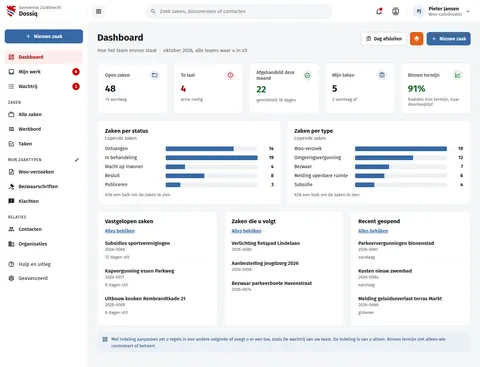
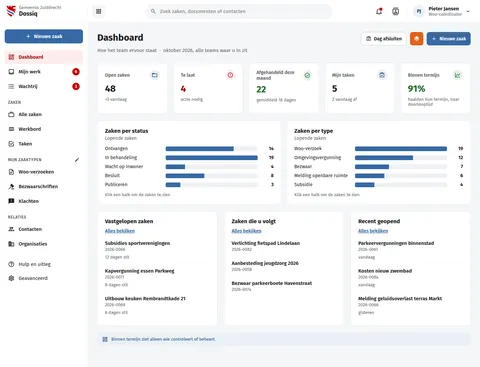
fix(screens): DqDashboard's note no longer points at Edit layout
The note kept only its last sentence, as the dossiq Dashboard page does:
layout is buildiq's and nobody keeps a personal arrangement. The board's
capability note drops "eigen indeling" for the same reason.

Assisted-by: ClaudeCode:claude-opus-5-5

Changed region(s): [[0.2188, 0.8992, 0.9375, 0.9591]]

diff --git a/preview/screens/boards/DqDashboard.html b/preview/screens/boards/DqDashboard.html
@@ -164,7 +164,7 @@ a{color:var(--sc-primary, #3669a5)}a:hover{color:var(--sc-primary-deep, #234a78)
         <div style="display: grid; grid-template-columns: repeat(auto-fit, minmax(200px, 1fr)); gap: 16px"><a href="DqZaken.html" style="background: #ffffff; border: 1px solid var(--sc-work-line, #e4e6ea); border-radius: 12px; padding: 20px 22px; display: flex; flex-direction: column; gap: 8px; text-decoration: none; color: var(--sc-work-ink, #1b1c1d)"><span style="display: flex; justify-content: space-between; align-items: center; gap: 8px"><span style="font-size: 14px; color: var(--sc-work-muted, #5e6168); font-weight: 600">Open zaken</span><span style="width: 32px; height: 32px; border-radius: 16px; background: var(--sc-primary-light, #eaf0f7); color: var(--sc-primary-deep, #234a78); display: inline-flex; align-items: center; justify-content: center"><svg width="18" height="18" viewbox="0 0 24 24" fill="currentColor" aria-hidden="true"><path d="M20,18H4V8H20M20,6H12L10,4H4C2.89,4 2,4.89 2,6V18A2,2 0 0,0 4,20H20A2,2 0 0,0 22,18V8C22,6.89 21.1,6 20,6Z"></path></svg></span></span><strong style="font-size: 28px; font-weight: 700; color: var(--sc-work-ink, #1b1c1d)">48</strong><span style="font-size: 13px; color: var(--sc-work-muted, #5e6168)">+3 vandaag</span></a><a href="DqZaken.html" style="background: #ffffff; border: 1px solid var(--sc-work-line, #e4e6ea); border-radius: 12px; padding: 20px 22px; display: flex; flex-direction: column; gap: 8px; text-decoration: none; color: var(--sc-work-ink, #1b1c1d)"><span style="display: flex; justify-content: space-between; align-items: center; gap: 8px"><span style="font-size: 14px; color: var(--sc-work-muted, #5e6168); font-weight: 600">Te laat</span><span style="width: 32px; height: 32px; border-radius: 16px; background: #fcedec; color: var(--sc-accent-deep, #a30000); display: inline-flex; align-items: center; justify-content: center"><svg width="18" height="18" viewbox="0 0 24 24" fill="currentColor" aria-hidden="true"><path d="M11,15H13V17H11V15M11,7H13V13H11V7M12,2C6.47,2 2,6.5 2,12A10,10 0 0,0 12,22A10,10 0 0,0 22,12A10,10 0 0,0 12,2M12,20A8,8 0 0,1 4,12A8,8 0 0,1 12,4A8,8 0 0,1 20,12A8,8 0 0,1 12,20Z"></path></svg></span></span><strong style="font-size: 28px; font-weight: 700; color: var(--sc-accent-deep, #a30000)">4</strong><span style="font-size: 13px; color: var(--sc-work-muted, #5e6168)">actie nodig</span></a><a href="DqZaken.html" style="background: #ffffff; border: 1px solid var(--sc-work-line, #e4e6ea); border-radius: 12px; padding: 20px 22px; display: flex; flex-direction: column; gap: 8px; text-decoration: none; color: var(--sc-work-ink, #1b1c1d)"><span style="display: flex; justify-content: space-between; align-items: center; gap: 8px"><span style="font-size: 14px; color: var(--sc-work-muted, #5e6168); font-weight: 600">Afgehandeld deze maand</span><span style="width: 32px; height: 32px; border-radius: 16px; background: #e7f3ea; color: #1e6b2a; display: inline-flex; align-items: center; justify-content: center"><svg width="18" height="18" viewbox="0 0 24 24" fill="currentColor" aria-hidden="true"><path d="M12 2C6.5 2 2 6.5 2 12S6.5 22 12 22 22 17.5 22 12 17.5 2 12 2M12 20C7.59 20 4 16.41 4 12S7.59 4 12 4 20 7.59 20 12 16.41 20 12 20M16.59 7.58L10 14.17L7.41 11.59L6 13L10 17L18 9L16.59 7.58Z"></path></svg></span></span><strong style="font-size: 28px; font-weight: 700; color: #1e6b2a">22</strong><span style="font-size: 13px; color: var(--sc-work-muted, #5e6168)">gemiddeld 18 dagen</span></a><a href="DqZaken.html" style="background: #ffffff; border: 1px solid var(--sc-work-line, #e4e6ea); border-radius: 12px; padding: 20px 22px; display: flex; flex-direction: column; gap: 8px; text-decoration: none; color: var(--sc-work-ink, #1b1c1d)"><span style="display: flex; justify-content: space-between; align-items: center; gap: 8px"><span style="font-size: 14px; color: var(--sc-work-muted, #5e6168); font-weight: 600">Mijn taken</span><span style="width: 32px; height: 32px; border-radius: 16px; background: var(--sc-primary-light, #eaf0f7); color: var(--sc-primary-deep, #234a78); display: inline-flex; align-items: center; justify-content: center"><svg width="18" height="18" viewbox="0 0 24 24" fill="currentColor" aria-hidden="true"><path d="M19,3H14.82C14.4,1.84 13.3,1 12,1C10.7,1 9.6,1.84 9.18,3H5A2,2 0 0,0 3,5V19A2,2 0 0,0 5,21H19A2,2 0 0,0 21,19V5A2,2 0 0,0 19,3M12,3A1,1 0 0,1 13,4A1,1 0 0,1 12,5A1,1 0 0,1 11,4A1,1 0 0,1 12,3M7,7H17V5H19V19H5V5H7V7M7.5,13.5L9,12L11,14L15.5,9.5L17,11L11,17L7.5,13.5Z"></path></svg></span></span><strong style="font-size: 28px; font-weight: 700; color: var(--sc-work-ink, #1b1c1d)">5</strong><span style="font-size: 13px; color: var(--sc-work-muted, #5e6168)">2 vandaag af</span></a><a href="DqZaken.html" style="background: #ffffff; border: 1px solid var(--sc-work-line, #e4e6ea); border-radius: 12px; padding: 20px 22px; display: flex; flex-direction: column; gap: 8px; text-decoration: none; color: var(--sc-work-ink, #1b1c1d)"><span style="display: flex; justify-content: space-between; align-items: center; gap: 8px"><span style="font-size: 14px; color: var(--sc-work-muted, #5e6168); font-weight: 600">Binnen termijn</span><span style="width: 32px; height: 32px; border-radius: 16px; background: #e7f3ea; color: #1e6b2a; display: inline-flex; align-items: center; justify-content: center"><svg width="18" height="18" viewbox="0 0 24 24" fill="currentColor" aria-hidden="true"><path d="M16,11.78L20.24,4.45L21.97,5.45L16.74,14.5L10.23,10.75L5.46,19H22V21H2V3H4V17.54L9.5,8L16,11.78Z"></path></svg></span></span><strong style="font-size: 28px; font-weight: 700; color: #1e6b2a">91%</strong><span style="font-size: 13px; color: var(--sc-work-muted, #5e6168)">haalden hun termijn, naar doorlooptijd</span></a></div>
         <div style="display: grid; grid-template-columns: repeat(auto-fit, minmax(360px, 1fr)); gap: 14px 16px"><section style="background: #ffffff; border: 1px solid var(--sc-work-line, #e4e6ea); border-radius: 12px; padding: 20px 22px; display: flex; flex-direction: column; gap: 14px"><div style="display: flex; flex-wrap: wrap; justify-content: space-between; align-items: flex-start; gap: 10px 16px"><div style="flex: 1 1 260px; min-width: 0; display: flex; flex-direction: column; gap: 3px"><h2 style="margin: 0; font-size: 17px; font-weight: 700">Zaken per status</h2><span style="font-size: 14px; color: var(--sc-work-muted, #5e6168)">Lopende zaken</span></div></div><ul style="margin: 0; padding: 0; list-style: none; display: flex; flex-direction: column; gap: 10px"><li style="display: grid; grid-template-columns: 170px 1fr 36px; gap: 12px; align-items: center; font-size: 14px"><span>Ontvangen</span><span style="height: 14px; border-radius: 4px; background: var(--sc-work-soft, #eef0f3); overflow: hidden"><span style="display: block; height: 14px; width: 74%; background: var(--sc-primary, #3669a5)"></span></span><strong style="text-align: right">14</strong></li><li style="display: grid; grid-template-columns: 170px 1fr 36px; gap: 12px; align-items: center; font-size: 14px"><span>In behandeling</span><span style="height: 14px; border-radius: 4px; background: var(--sc-work-soft, #eef0f3); overflow: hidden"><span style="display: block; height: 14px; width: 100%; background: var(--sc-primary, #3669a5)"></span></span><strong style="text-align: right">19</strong></li><li style="display: grid; grid-template-columns: 170px 1fr 36px; gap: 12px; align-items: center; font-size: 14px"><span>Wacht op inwoner</span><span style="height: 14px; border-radius: 4px; background: var(--sc-work-soft, #eef0f3); overflow: hidden"><span style="display: block; height: 14px; width: 21%; background: var(--sc-primary, #3669a5)"></span></span><strong style="text-align: right">4</strong></li><li style="display: grid; grid-template-columns: 170px 1fr 36px; gap: 12px; align-items: center; font-size: 14px"><span>Besluit</span><span style="height: 14px; border-radius: 4px; background: var(--sc-work-soft, #eef0f3); overflow: hidden"><span style="display: block; height: 14px; width: 42%; background: var(--sc-primary, #3669a5)"></span></span><strong style="text-align: right">8</strong></li><li style="display: grid; grid-template-columns: 170px 1fr 36px; gap: 12px; align-items: center; font-size: 14px"><span>Publiceren</span><span style="height: 14px; border-radius: 4px; background: var(--sc-work-soft, #eef0f3); overflow: hidden"><span style="display: block; height: 14px; width: 16%; background: var(--sc-primary, #3669a5)"></span></span><strong style="text-align: right">3</strong></li></ul><span style="font-size: 13px; color: var(--sc-work-muted, #5e6168)">Klik een balk om de zaken te zien</span></section><section style="background: #ffffff; border: 1px solid var(--sc-work-line, #e4e6ea); border-radius: 12px; padding: 20px 22px; display: flex; flex-direction: column; gap: 14px"><div style="display: flex; flex-wrap: wrap; justify-content: space-between; align-items: flex-start; gap: 10px 16px"><div style="flex: 1 1 260px; min-width: 0; display: flex; flex-direction: column; gap: 3px"><h2 style="margin: 0; font-size: 17px; font-weight: 700">Zaken per type</h2><span style="font-size: 14px; color: var(--sc-work-muted, #5e6168)">Lopende zaken</span></div></div><ul style="margin: 0; padding: 0; list-style: none; display: flex; flex-direction: column; gap: 10px"><li style="display: grid; grid-template-columns: 170px 1fr 36px; gap: 12px; align-items: center; font-size: 14px"><span>Woo-verzoek</span><span style="height: 14px; border-radius: 4px; background: var(--sc-work-soft, #eef0f3); overflow: hidden"><span style="display: block; height: 14px; width: 100%; background: var(--sc-primary, #3669a5)"></span></span><strong style="text-align: right">19</strong></li><li style="display: grid; grid-template-columns: 170px 1fr 36px; gap: 12px; align-items: center; font-size: 14px"><span>Omgevingsvergunning</span><span style="height: 14px; border-radius: 4px; background: var(--sc-work-soft, #eef0f3); overflow: hidden"><span style="display: block; height: 14px; width: 63%; background: var(--sc-primary, #3669a5)"></span></span><strong style="text-align: right">12</strong></li><li style="display: grid; grid-template-columns: 170px 1fr 36px; gap: 12px; align-items: center; font-size: 14px"><span>Bezwaar</span><span style="height: 14px; border-radius: 4px; background: var(--sc-work-soft, #eef0f3); overflow: hidden"><span style="display: block; height: 14px; width: 37%; background: var(--sc-primary, #3669a5)"></span></span><strong style="text-align: right">7</strong></li><li style="display: grid; grid-template-columns: 170px 1fr 36px; gap: 12px; align-items: center; font-size: 14px"><span>Melding openbare ruimte</span><span style="height: 14px; border-radius: 4px; background: var(--sc-work-soft, #eef0f3); overflow: hidden"><span style="display: block; height: 14px; width: 32%; background: var(--sc-primary, #3669a5)"></span></span><strong style="text-align: right">6</strong></li><li style="display: grid; grid-template-columns: 170px 1fr 36px; gap: 12px; align-items: center; font-size: 14px"><span>Subsidie</span><span style="height: 14px; border-radius: 4px; background: var(--sc-work-soft, #eef0f3); overflow: hidden"><span style="display: block; height: 14px; width: 21%; background: var(--sc-primary, #3669a5)"></span></span><strong style="text-align: right">4</strong></li></ul><span style="font-size: 13px; color: var(--sc-work-muted, #5e6168)">Klik een balk om de zaken te zien</span></section></div>
         <div style="display: grid; grid-template-columns: repeat(auto-fit, minmax(280px, 1fr)); gap: 20px"><section style="background: #ffffff; border: 1px solid var(--sc-work-line, #e4e6ea); border-radius: 12px; padding: 20px 22px; display: flex; flex-direction: column; gap: 6px"><div style="display: flex; flex-wrap: wrap; justify-content: space-between; align-items: flex-start; gap: 10px 16px"><div style="flex: 1 1 260px; min-width: 0; display: flex; flex-direction: column; gap: 3px"><h2 style="margin: 0; font-size: 17px; font-weight: 700">Vastgelopen zaken</h2></div><div style="flex: none; display: flex; flex-wrap: wrap; gap: 8px"><a href="DqZaken.html" style="font-size: 14px; font-weight: 600">Alles bekijken</a></div></div><ul style="margin: 0; padding: 0; list-style: none; display: flex; flex-direction: column"><li style="display: flex; flex-wrap: wrap; gap: 8px 16px; align-items: center; padding: 12px 0; border-top: 1px solid var(--sc-work-soft, #eef0f3)"><span style="flex: 1 1 260px; min-width: 0; display: flex; gap: 12px; align-items: center"><span style="display: flex; flex-direction: column; gap: 2px; min-width: 0"><strong style="font-size: 15px; font-weight: 600">Subsidies sportverenigingen</strong><span style="font-size: 13px; color: var(--sc-work-muted, #5e6168)">2026-0066</span></span></span><span style="flex: none; display: flex; flex-wrap: wrap; gap: 8px; align-items: center"><span style="font-size: 13px; color: var(--sc-work-muted, #5e6168)">12 dagen stil</span></span></li><li style="display: flex; flex-wrap: wrap; gap: 8px 16px; align-items: center; padding: 12px 0; border-top: 1px solid var(--sc-work-soft, #eef0f3)"><span style="flex: 1 1 260px; min-width: 0; display: flex; gap: 12px; align-items: center"><span style="display: flex; flex-direction: column; gap: 2px; min-width: 0"><strong style="font-size: 15px; font-weight: 600">Kapvergunning essen Parkweg</strong><span style="font-size: 13px; color: var(--sc-work-muted, #5e6168)">2026-0071</span></span></span><span style="flex: none; display: flex; flex-wrap: wrap; gap: 8px; align-items: center"><span style="font-size: 13px; color: var(--sc-work-muted, #5e6168)">8 dagen stil</span></span></li><li style="display: flex; flex-wrap: wrap; gap: 8px 16px; align-items: center; padding: 12px 0; border-top: 1px solid var(--sc-work-soft, #eef0f3)"><span style="flex: 1 1 260px; min-width: 0; display: flex; gap: 12px; align-items: center"><span style="display: flex; flex-direction: column; gap: 2px; min-width: 0"><strong style="font-size: 15px; font-weight: 600">Uitbouw keuken Rembrandtkade 21</strong><span style="font-size: 13px; color: var(--sc-work-muted, #5e6168)">2026-0069</span></span></span><span style="flex: none; display: flex; flex-wrap: wrap; gap: 8px; align-items: center"><span style="font-size: 13px; color: var(--sc-work-muted, #5e6168)">6 dagen stil</span></span></li></ul></section><section style="background: #ffffff; border: 1px solid var(--sc-work-line, #e4e6ea); border-radius: 12px; padding: 20px 22px; display: flex; flex-direction: column; gap: 6px"><div style="display: flex; flex-wrap: wrap; justify-content: space-between; align-items: flex-start; gap: 10px 16px"><div style="flex: 1 1 260px; min-width: 0; display: flex; flex-direction: column; gap: 3px"><h2 style="margin: 0; font-size: 17px; font-weight: 700">Zaken die u volgt</h2></div><div style="flex: none; display: flex; flex-wrap: wrap; gap: 8px"><a href="DqZaken.html" style="font-size: 14px; font-weight: 600">Alles bekijken</a></div></div><ul style="margin: 0; padding: 0; list-style: none; display: flex; flex-direction: column"><li style="display: flex; flex-wrap: wrap; gap: 8px 16px; align-items: center; padding: 12px 0; border-top: 1px solid var(--sc-work-soft, #eef0f3)"><span style="flex: 1 1 260px; min-width: 0; display: flex; gap: 12px; align-items: center"><span style="display: flex; flex-direction: column; gap: 2px; min-width: 0"><strong style="font-size: 15px; font-weight: 600">Verlichting fietspad Lindelaan</strong><span style="font-size: 13px; color: var(--sc-work-muted, #5e6168)">2026-0082</span></span></span><span style="flex: none; display: flex; flex-wrap: wrap; gap: 8px; align-items: center"></span></li><li style="display: flex; flex-wrap: wrap; gap: 8px 16px; align-items: center; padding: 12px 0; border-top: 1px solid var(--sc-work-soft, #eef0f3)"><span style="flex: 1 1 260px; min-width: 0; display: flex; gap: 12px; align-items: center"><span style="display: flex; flex-direction: column; gap: 2px; min-width: 0"><strong style="font-size: 15px; font-weight: 600">Aanbesteding jeugdzorg 2026</strong><span style="font-size: 13px; color: var(--sc-work-muted, #5e6168)">2026-0058</span></span></span><span style="flex: none; display: flex; flex-wrap: wrap; gap: 8px; align-items: center"></span></li><li style="display: flex; flex-wrap: wrap; gap: 8px 16px; align-items: center; padding: 12px 0; border-top: 1px solid var(--sc-work-soft, #eef0f3)"><span style="flex: 1 1 260px; min-width: 0; display: flex; gap: 12px; align-items: center"><span style="display: flex; flex-direction: column; gap: 2px; min-width: 0"><strong style="font-size: 15px; font-weight: 600">Bezwaar parkeerboete Havenstraat</strong><span style="font-size: 13px; color: var(--sc-work-muted, #5e6168)">2026-0074</span></span></span><span style="flex: none; display: flex; flex-wrap: wrap; gap: 8px; align-items: center"></span></li></ul></section><section style="background: #ffffff; border: 1px solid var(--sc-work-line, #e4e6ea); border-radius: 12px; padding: 20px 22px; display: flex; flex-direction: column; gap: 6px"><div style="display: flex; flex-wrap: wrap; justify-content: space-between; align-items: flex-start; gap: 10px 16px"><div style="flex: 1 1 260px; min-width: 0; display: flex; flex-direction: column; gap: 3px"><h2 style="margin: 0; font-size: 17px; font-weight: 700">Recent geopend</h2></div><div style="flex: none; display: flex; flex-wrap: wrap; gap: 8px"><a href="DqZaken.html" style="font-size: 14px; font-weight: 600">Alles bekijken</a></div></div><ul style="margin: 0; padding: 0; list-style: none; display: flex; flex-direction: column"><li style="display: flex; flex-wrap: wrap; gap: 8px 16px; align-items: center; padding: 12px 0; border-top: 1px solid var(--sc-work-soft, #eef0f3)"><span style="flex: 1 1 260px; min-width: 0; display: flex; gap: 12px; align-items: center"><span style="display: flex; flex-direction: column; gap: 2px; min-width: 0"><strong style="font-size: 15px; font-weight: 600">Parkeervergunningen binnenstad</strong><span style="font-size: 13px; color: var(--sc-work-muted, #5e6168)">2026-0061</span></span></span><span style="flex: none; display: flex; flex-wrap: wrap; gap: 8px; align-items: center"><span style="font-size: 13px; color: var(--sc-work-muted, #5e6168)">vandaag</span></span></li><li style="display: flex; flex-wrap: wrap; gap: 8px 16px; align-items: center; padding: 12px 0; border-top: 1px solid var(--sc-work-soft, #eef0f3)"><span style="flex: 1 1 260px; min-width: 0; display: flex; gap: 12px; align-items: center"><span style="display: flex; flex-direction: column; gap: 2px; min-width: 0"><strong style="font-size: 15px; font-weight: 600">Kosten nieuw zwembad</strong><span style="font-size: 13px; color: var(--sc-work-muted, #5e6168)">2026-0084</span></span></span><span style="flex: none; display: flex; flex-wrap: wrap; gap: 8px; align-items: center"><span style="font-size: 13px; color: var(--sc-work-muted, #5e6168)">vandaag</span></span></li><li style="display: flex; flex-wrap: wrap; gap: 8px 16px; align-items: center; padding: 12px 0; border-top: 1px solid var(--sc-work-soft, #eef0f3)"><span style="flex: 1 1 260px; min-width: 0; display: flex; gap: 12px; align-items: center"><span style="display: flex; flex-direction: column; gap: 2px; min-width: 0"><strong style="font-size: 15px; font-weight: 600">Melding geluidsoverlast terras Markt</strong><span style="font-size: 13px; color: var(--sc-work-muted, #5e6168)">2026-0066</span></span></span><span style="flex: none; display: flex; flex-wrap: wrap; gap: 8px; align-items: center"><span style="font-size: 13px; color: var(--sc-work-muted, #5e6168)">gisteren</span></span></li></ul></section></div>
-        <div style="display: flex; gap: 10px; align-items: flex-start; padding: 10px 14px; border-radius: 10px; background: var(--sc-primary-light, #eaf0f7); color: var(--sc-primary-deep, #234a78); font-size: 13px; line-height: 1.5"><svg width="18" height="18" viewbox="0 0 24 24" fill="currentColor" aria-hidden="true" style="flex: none; margin-top: 1px"><path d="M19,5V7H15V5H19M9,5V11H5V5H9M19,13V19H15V13H19M9,17V19H5V17H9M21,3H13V9H21V3M11,3H3V13H11V3M21,11H13V21H21V11M11,15H3V21H11V15Z"></path></svg><span>Met Indeling aanpassen zet u tegels in een andere volgorde of voegt u er een toe, zoals De wachtrij van uw team. De indeling is van u alleen. Binnen termijn ziet alleen wie controleert of beheert.</span></div>
+        <div style="display: flex; gap: 10px; align-items: flex-start; padding: 10px 14px; border-radius: 10px; background: var(--sc-primary-light, #eaf0f7); color: var(--sc-primary-deep, #234a78); font-size: 13px; line-height: 1.5"><svg width="18" height="18" viewbox="0 0 24 24" fill="currentColor" aria-hidden="true" style="flex: none; margin-top: 1px"><path d="M19,5V7H15V5H19M9,5V11H5V5H9M19,13V19H15V13H19M9,17V19H5V17H9M21,3H13V9H21V3M11,3H3V13H11V3M21,11H13V21H21V11M11,15H3V21H11V15Z"></path></svg><span>Binnen termijn ziet alleen wie controleert of beheert.</span></div>
       </main>
     </div>
   </div>

diff --git a/screens-src/zuiddrecht/DqDashboard.dc.html b/screens-src/zuiddrecht/DqDashboard.dc.html
@@ -30,7 +30,7 @@ a{color:#3669a5}a:hover{color:#234a78}
         <div style="display: grid; grid-template-columns: repeat(auto-fit, minmax(200px, 1fr)); gap: 16px"><a href="DqZaken.dc.html" style="background: #ffffff; border: 1px solid #e4e6ea; border-radius: 12px; padding: 20px 22px; display: flex; flex-direction: column; gap: 8px; text-decoration: none; color: #1b1c1d"><span style="display: flex; justify-content: space-between; align-items: center; gap: 8px"><span style="font-size: 14px; color: #5e6168; font-weight: 600">Open zaken</span><span style="width: 32px; height: 32px; border-radius: 16px; background: #eaf0f7; color: #234a78; display: inline-flex; align-items: center; justify-content: center"><svg width="18" height="18" viewBox="0 0 24 24" fill="currentColor" aria-hidden="true"><path d="M20,18H4V8H20M20,6H12L10,4H4C2.89,4 2,4.89 2,6V18A2,2 0 0,0 4,20H20A2,2 0 0,0 22,18V8C22,6.89 21.1,6 20,6Z"></path></svg></span></span><strong style="font-size: 28px; font-weight: 700; color: #1b1c1d">48</strong><span style="font-size: 13px; color: #5e6168">+3 vandaag</span></a><a href="DqZaken.dc.html" style="background: #ffffff; border: 1px solid #e4e6ea; border-radius: 12px; padding: 20px 22px; display: flex; flex-direction: column; gap: 8px; text-decoration: none; color: #1b1c1d"><span style="display: flex; justify-content: space-between; align-items: center; gap: 8px"><span style="font-size: 14px; color: #5e6168; font-weight: 600">Te laat</span><span style="width: 32px; height: 32px; border-radius: 16px; background: #fcedec; color: #a30000; display: inline-flex; align-items: center; justify-content: center"><svg width="18" height="18" viewBox="0 0 24 24" fill="currentColor" aria-hidden="true"><path d="M11,15H13V17H11V15M11,7H13V13H11V7M12,2C6.47,2 2,6.5 2,12A10,10 0 0,0 12,22A10,10 0 0,0 22,12A10,10 0 0,0 12,2M12,20A8,8 0 0,1 4,12A8,8 0 0,1 12,4A8,8 0 0,1 20,12A8,8 0 0,1 12,20Z"></path></svg></span></span><strong style="font-size: 28px; font-weight: 700; color: #a30000">4</strong><span style="font-size: 13px; color: #5e6168">actie nodig</span></a><a href="DqZaken.dc.html" style="background: #ffffff; border: 1px solid #e4e6ea; border-radius: 12px; padding: 20px 22px; display: flex; flex-direction: column; gap: 8px; text-decoration: none; color: #1b1c1d"><span style="display: flex; justify-content: space-between; align-items: center; gap: 8px"><span style="font-size: 14px; color: #5e6168; font-weight: 600">Afgehandeld deze maand</span><span style="width: 32px; height: 32px; border-radius: 16px; background: #e7f3ea; color: #1e6b2a; display: inline-flex; align-items: center; justify-content: center"><svg width="18" height="18" viewBox="0 0 24 24" fill="currentColor" aria-hidden="true"><path d="M12 2C6.5 2 2 6.5 2 12S6.5 22 12 22 22 17.5 22 12 17.5 2 12 2M12 20C7.59 20 4 16.41 4 12S7.59 4 12 4 20 7.59 20 12 16.41 20 12 20M16.59 7.58L10 14.17L7.41 11.59L6 13L10 17L18 9L16.59 7.58Z"></path></svg></span></span><strong style="font-size: 28px; font-weight: 700; color: #1e6b2a">22</strong><span style="font-size: 13px; color: #5e6168">gemiddeld 18 dagen</span></a><a href="DqZaken.dc.html" style="background: #ffffff; border: 1px solid #e4e6ea; border-radius: 12px; padding: 20px 22px; display: flex; flex-direction: column; gap: 8px; text-decoration: none; color: #1b1c1d"><span style="display: flex; justify-content: space-between; align-items: center; gap: 8px"><span style="font-size: 14px; color: #5e6168; font-weight: 600">Mijn taken</span><span style="width: 32px; height: 32px; border-radius: 16px; background: #eaf0f7; color: #234a78; display: inline-flex; align-items: center; justify-content: center"><svg width="18" height="18" viewBox="0 0 24 24" fill="currentColor" aria-hidden="true"><path d="M19,3H14.82C14.4,1.84 13.3,1 12,1C10.7,1 9.6,1.84 9.18,3H5A2,2 0 0,0 3,5V19A2,2 0 0,0 5,21H19A2,2 0 0,0 21,19V5A2,2 0 0,0 19,3M12,3A1,1 0 0,1 13,4A1,1 0 0,1 12,5A1,1 0 0,1 11,4A1,1 0 0,1 12,3M7,7H17V5H19V19H5V5H7V7M7.5,13.5L9,12L11,14L15.5,9.5L17,11L11,17L7.5,13.5Z"></path></svg></span></span><strong style="font-size: 28px; font-weight: 700; color: #1b1c1d">5</strong><span style="font-size: 13px; color: #5e6168">2 vandaag af</span></a><a href="DqZaken.dc.html" style="background: #ffffff; border: 1px solid #e4e6ea; border-radius: 12px; padding: 20px 22px; display: flex; flex-direction: column; gap: 8px; text-decoration: none; color: #1b1c1d"><span style="display: flex; justify-content: space-between; align-items: center; gap: 8px"><span style="font-size: 14px; color: #5e6168; font-weight: 600">Binnen termijn</span><span style="width: 32px; height: 32px; border-radius: 16px; background: #e7f3ea; color: #1e6b2a; display: inline-flex; align-items: center; justify-content: center"><svg width="18" height="18" viewBox="0 0 24 24" fill="currentColor" aria-hidden="true"><path d="M16,11.78L20.24,4.45L21.97,5.45L16.74,14.5L10.23,10.75L5.46,19H22V21H2V3H4V17.54L9.5,8L16,11.78Z"></path></svg></span></span><strong style="font-size: 28px; font-weight: 700; color: #1e6b2a">91%</strong><span style="font-size: 13px; color: #5e6168">haalden hun termijn, naar doorlooptijd</span></a></div>
         <div style="display: grid; grid-template-columns: repeat(auto-fit, minmax(360px, 1fr)); gap: 14px 16px"><section style="background: #ffffff; border: 1px solid #e4e6ea; border-radius: 12px; padding: 20px 22px; display: flex; flex-direction: column; gap: 14px"><div style="display: flex; flex-wrap: wrap; justify-content: space-between; align-items: flex-start; gap: 10px 16px"><div style="flex: 1 1 260px; min-width: 0; display: flex; flex-direction: column; gap: 3px"><h2 style="margin: 0; font-size: 17px; font-weight: 700">Zaken per status</h2><span style="font-size: 14px; color: #5e6168">Lopende zaken</span></div></div><ul style="margin: 0; padding: 0; list-style: none; display: flex; flex-direction: column; gap: 10px"><li style="display: grid; grid-template-columns: 170px 1fr 36px; gap: 12px; align-items: center; font-size: 14px"><span>Ontvangen</span><span style="height: 14px; border-radius: 4px; background: #eef0f3; overflow: hidden"><span style="display: block; height: 14px; width: 74%; background: #3669a5"></span></span><strong style="text-align: right">14</strong></li><li style="display: grid; grid-template-columns: 170px 1fr 36px; gap: 12px; align-items: center; font-size: 14px"><span>In behandeling</span><span style="height: 14px; border-radius: 4px; background: #eef0f3; overflow: hidden"><span style="display: block; height: 14px; width: 100%; background: #3669a5"></span></span><strong style="text-align: right">19</strong></li><li style="display: grid; grid-template-columns: 170px 1fr 36px; gap: 12px; align-items: center; font-size: 14px"><span>Wacht op inwoner</span><span style="height: 14px; border-radius: 4px; background: #eef0f3; overflow: hidden"><span style="display: block; height: 14px; width: 21%; background: #3669a5"></span></span><strong style="text-align: right">4</strong></li><li style="display: grid; grid-template-columns: 170px 1fr 36px; gap: 12px; align-items: center; font-size: 14px"><span>Besluit</span><span style="height: 14px; border-radius: 4px; background: #eef0f3; overflow: hidden"><span style="display: block; height: 14px; width: 42%; background: #3669a5"></span></span><strong style="text-align: right">8</strong></li><li style="display: grid; grid-template-columns: 170px 1fr 36px; gap: 12px; align-items: center; font-size: 14px"><span>Publiceren</span><span style="height: 14px; border-radius: 4px; background: #eef0f3; overflow: hidden"><span style="display: block; height: 14px; width: 16%; background: #3669a5"></span></span><strong style="text-align: right">3</strong></li></ul><span style="font-size: 13px; color: #5e6168">Klik een balk om de zaken te zien</span></section><section style="background: #ffffff; border: 1px solid #e4e6ea; border-radius: 12px; padding: 20px 22px; display: flex; flex-direction: column; gap: 14px"><div style="display: flex; flex-wrap: wrap; justify-content: space-between; align-items: flex-start; gap: 10px 16px"><div style="flex: 1 1 260px; min-width: 0; display: flex; flex-direction: column; gap: 3px"><h2 style="margin: 0; font-size: 17px; font-weight: 700">Zaken per type</h2><span style="font-size: 14px; color: #5e6168">Lopende zaken</span></div></div><ul style="margin: 0; padding: 0; list-style: none; display: flex; flex-direction: column; gap: 10px"><li style="display: grid; grid-template-columns: 170px 1fr 36px; gap: 12px; align-items: center; font-size: 14px"><span>Woo-verzoek</span><span style="height: 14px; border-radius: 4px; background: #eef0f3; overflow: hidden"><span style="display: block; height: 14px; width: 100%; background: #3669a5"></span></span><strong style="text-align: right">19</strong></li><li style="display: grid; grid-template-columns: 170px 1fr 36px; gap: 12px; align-items: center; font-size: 14px"><span>Omgevingsvergunning</span><span style="height: 14px; border-radius: 4px; background: #eef0f3; overflow: hidden"><span style="display: block; height: 14px; width: 63%; background: #3669a5"></span></span><strong style="text-align: right">12</strong></li><li style="display: grid; grid-template-columns: 170px 1fr 36px; gap: 12px; align-items: center; font-size: 14px"><span>Bezwaar</span><span style="height: 14px; border-radius: 4px; background: #eef0f3; overflow: hidden"><span style="display: block; height: 14px; width: 37%; background: #3669a5"></span></span><strong style="text-align: right">7</strong></li><li style="display: grid; grid-template-columns: 170px 1fr 36px; gap: 12px; align-items: center; font-size: 14px"><span>Melding openbare ruimte</span><span style="height: 14px; border-radius: 4px; background: #eef0f3; overflow: hidden"><span style="display: block; height: 14px; width: 32%; background: #3669a5"></span></span><strong style="text-align: right">6</strong></li><li style="display: grid; grid-template-columns: 170px 1fr 36px; gap: 12px; align-items: center; font-size: 14px"><span>Subsidie</span><span style="height: 14px; border-radius: 4px; background: #eef0f3; overflow: hidden"><span style="display: block; height: 14px; width: 21%; background: #3669a5"></span></span><strong style="text-align: right">4</strong></li></ul><span style="font-size: 13px; color: #5e6168">Klik een balk om de zaken te zien</span></section></div>
         <div style="display: grid; grid-template-columns: repeat(auto-fit, minmax(280px, 1fr)); gap: 20px"><section style="background: #ffffff; border: 1px solid #e4e6ea; border-radius: 12px; padding: 20px 22px; display: flex; flex-direction: column; gap: 6px"><div style="display: flex; flex-wrap: wrap; justify-content: space-between; align-items: flex-start; gap: 10px 16px"><div style="flex: 1 1 260px; min-width: 0; display: flex; flex-direction: column; gap: 3px"><h2 style="margin: 0; font-size: 17px; font-weight: 700">Vastgelopen zaken</h2></div><div style="flex: none; display: flex; flex-wrap: wrap; gap: 8px"><a href="DqZaken.dc.html" style="font-size: 14px; font-weight: 600">Alles bekijken</a></div></div><ul style="margin: 0; padding: 0; list-style: none; display: flex; flex-direction: column"><li style="display: flex; flex-wrap: wrap; gap: 8px 16px; align-items: center; padding: 12px 0; border-top: 1px solid #eef0f3"><span style="flex: 1 1 260px; min-width: 0; display: flex; gap: 12px; align-items: center"><span style="display: flex; flex-direction: column; gap: 2px; min-width: 0"><strong style="font-size: 15px; font-weight: 600">Subsidies sportverenigingen</strong><span style="font-size: 13px; color: #5e6168">2026-0066</span></span></span><span style="flex: none; display: flex; flex-wrap: wrap; gap: 8px; align-items: center"><span style="font-size: 13px; color: #5e6168">12 dagen stil</span></span></li><li style="display: flex; flex-wrap: wrap; gap: 8px 16px; align-items: center; padding: 12px 0; border-top: 1px solid #eef0f3"><span style="flex: 1 1 260px; min-width: 0; display: flex; gap: 12px; align-items: center"><span style="display: flex; flex-direction: column; gap: 2px; min-width: 0"><strong style="font-size: 15px; font-weight: 600">Kapvergunning essen Parkweg</strong><span style="font-size: 13px; color: #5e6168">2026-0071</span></span></span><span style="flex: none; display: flex; flex-wrap: wrap; gap: 8px; align-items: center"><span style="font-size: 13px; color: #5e6168">8 dagen stil</span></span></li><li style="display: flex; flex-wrap: wrap; gap: 8px 16px; align-items: center; padding: 12px 0; border-top: 1px solid #eef0f3"><span style="flex: 1 1 260px; min-width: 0; display: flex; gap: 12px; align-items: center"><span style="display: flex; flex-direction: column; gap: 2px; min-width: 0"><strong style="font-size: 15px; font-weight: 600">Uitbouw keuken Rembrandtkade 21</strong><span style="font-size: 13px; color: #5e6168">2026-0069</span></span></span><span style="flex: none; display: flex; flex-wrap: wrap; gap: 8px; align-items: center"><span style="font-size: 13px; color: #5e6168">6 dagen stil</span></span></li></ul></section><section style="background: #ffffff; border: 1px solid #e4e6ea; border-radius: 12px; padding: 20px 22px; display: flex; flex-direction: column; gap: 6px"><div style="display: flex; flex-wrap: wrap; justify-content: space-between; align-items: flex-start; gap: 10px 16px"><div style="flex: 1 1 260px; min-width: 0; display: flex; flex-direction: column; gap: 3px"><h2 style="margin: 0; font-size: 17px; font-weight: 700">Zaken die u volgt</h2></div><div style="flex: none; display: flex; flex-wrap: wrap; gap: 8px"><a href="DqZaken.dc.html" style="font-size: 14px; font-weight: 600">Alles bekijken</a></div></div><ul style="margin: 0; padding: 0; list-style: none; display: flex; flex-direction: column"><li style="display: flex; flex-wrap: wrap; gap: 8px 16px; align-items: center; padding: 12px 0; border-top: 1px solid #eef0f3"><span style="flex: 1 1 260px; min-width: 0; display: flex; gap: 12px; align-items: center"><span style="display: flex; flex-direction: column; gap: 2px; min-width: 0"><strong style="font-size: 15px; font-weight: 600">Verlichting fietspad Lindelaan</strong><span style="font-size: 13px; color: #5e6168">2026-0082</span></span></span><span style="flex: none; display: flex; flex-wrap: wrap; gap: 8px; align-items: center"></span></li><li style="display: flex; flex-wrap: wrap; gap: 8px 16px; align-items: center; padding: 12px 0; border-top: 1px solid #eef0f3"><span style="flex: 1 1 260px; min-width: 0; display: flex; gap: 12px; align-items: center"><span style="display: flex; flex-direction: column; gap: 2px; min-width: 0"><strong style="font-size: 15px; font-weight: 600">Aanbesteding jeugdzorg 2026</strong><span style="font-size: 13px; color: #5e6168">2026-0058</span></span></span><span style="flex: none; display: flex; flex-wrap: wrap; gap: 8px; align-items: center"></span></li><li style="display: flex; flex-wrap: wrap; gap: 8px 16px; align-items: center; padding: 12px 0; border-top: 1px solid #eef0f3"><span style="flex: 1 1 260px; min-width: 0; display: flex; gap: 12px; align-items: center"><span style="display: flex; flex-direction: column; gap: 2px; min-width: 0"><strong style="font-size: 15px; font-weight: 600">Bezwaar parkeerboete Havenstraat</strong><span style="font-size: 13px; color: #5e6168">2026-0074</span></span></span><span style="flex: none; display: flex; flex-wrap: wrap; gap: 8px; align-items: center"></span></li></ul></section><section style="background: #ffffff; border: 1px solid #e4e6ea; border-radius: 12px; padding: 20px 22px; display: flex; flex-direction: column; gap: 6px"><div style="display: flex; flex-wrap: wrap; justify-content: space-between; align-items: flex-start; gap: 10px 16px"><div style="flex: 1 1 260px; min-width: 0; display: flex; flex-direction: column; gap: 3px"><h2 style="margin: 0; font-size: 17px; font-weight: 700">Recent geopend</h2></div><div style="flex: none; display: flex; flex-wrap: wrap; gap: 8px"><a href="DqZaken.dc.html" style="font-size: 14px; font-weight: 600">Alles bekijken</a></div></div><ul style="margin: 0; padding: 0; list-style: none; display: flex; flex-direction: column"><li style="display: flex; flex-wrap: wrap; gap: 8px 16px; align-items: center; padding: 12px 0; border-top: 1px solid #eef0f3"><span style="flex: 1 1 260px; min-width: 0; display: flex; gap: 12px; align-items: center"><span style="display: flex; flex-direction: column; gap: 2px; min-width: 0"><strong style="font-size: 15px; font-weight: 600">Parkeervergunningen binnenstad</strong><span style="font-size: 13px; color: #5e6168">2026-0061</span></span></span><span style="flex: none; display: flex; flex-wrap: wrap; gap: 8px; align-items: center"><span style="font-size: 13px; color: #5e6168">vandaag</span></span></li><li style="display: flex; flex-wrap: wrap; gap: 8px 16px; align-items: center; padding: 12px 0; border-top: 1px solid #eef0f3"><span style="flex: 1 1 260px; min-width: 0; display: flex; gap: 12px; align-items: center"><span style="display: flex; flex-direction: column; gap: 2px; min-width: 0"><strong style="font-size: 15px; font-weight: 600">Kosten nieuw zwembad</strong><span style="font-size: 13px; color: #5e6168">2026-0084</span></span></span><span style="flex: none; display: flex; flex-wrap: wrap; gap: 8px; align-items: center"><span style="font-size: 13px; color: #5e6168">vandaag</span></span></li><li style="display: flex; flex-wrap: wrap; gap: 8px 16px; align-items: center; padding: 12px 0; border-top: 1px solid #eef0f3"><span style="flex: 1 1 260px; min-width: 0; display: flex; gap: 12px; align-items: center"><span style="display: flex; flex-direction: column; gap: 2px; min-width: 0"><strong style="font-size: 15px; font-weight: 600">Melding geluidsoverlast terras Markt</strong><span style="font-size: 13px; color: #5e6168">2026-0066</span></span></span><span style="flex: none; display: flex; flex-wrap: wrap; gap: 8px; align-items: center"><span style="font-size: 13px; color: #5e6168">gisteren</span></span></li></ul></section></div>
-        <div style="display: flex; gap: 10px; align-items: flex-start; padding: 10px 14px; border-radius: 10px; background: #eaf0f7; color: #234a78; font-size: 13px; line-height: 1.5"><svg width="18" height="18" viewBox="0 0 24 24" fill="currentColor" aria-hidden="true" style="flex: none; margin-top: 1px"><path d="M19,5V7H15V5H19M9,5V11H5V5H9M19,13V19H15V13H19M9,17V19H5V17H9M21,3H13V9H21V3M11,3H3V13H11V3M21,11H13V21H21V11M11,15H3V21H11V15Z"></path></svg><span>Met Indeling aanpassen zet u tegels in een andere volgorde of voegt u er een toe, zoals De wachtrij van uw team. De indeling is van u alleen. Binnen termijn ziet alleen wie controleert of beheert.</span></div>
+        <div style="display: flex; gap: 10px; align-items: flex-start; padding: 10px 14px; border-radius: 10px; background: #eaf0f7; color: #234a78; font-size: 13px; line-height: 1.5"><svg width="18" height="18" viewBox="0 0 24 24" fill="currentColor" aria-hidden="true" style="flex: none; margin-top: 1px"><path d="M19,5V7H15V5H19M9,5V11H5V5H9M19,13V19H15V13H19M9,17V19H5V17H9M21,3H13V9H21V3M11,3H3V13H11V3M21,11H13V21H21V11M11,15H3V21H11V15Z"></path></svg><span>Binnen termijn ziet alleen wie controleert of beheert.</span></div>
       </main>
     </div>
   </div>
